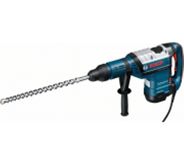
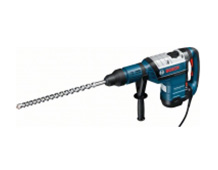
#3

Changed region(s): [[0.0, 0.2439, 1.0, 0.7622]]

diff --git a/index.html b/index.html
@@ -209,50 +209,50 @@
             <ul class="popular-catalog">
              <li class="popular-catalog-items">
               <div class="first-popular-items">
-                <img src="img/bosch_bfg_9000.jpg" alt="Перфоратор BOSCH BFG 9000">
+                <img src="img/bosch_bfg_9000.jpg" alt="Перфоратор BOSCH BFG 9000" width="218" height="170">
                 <div class="catalog-button">
                   <button type="button">Купить</button>
                   <button type="button">В закладки</button>
                 </div>
               </div>
               <h4>Перфоратор BOSCH BFG 9000</h4>
-              <p>32500 P.</p>
-              <p>25500 P.</p>
+              <p class="popular-tiems-old-price">32500 P.</p>
+              <p class="popular-items-price">25500 P.</p>
             </li>
             <li class="popular-catalog-items">
               <div>
-                <img src="img/bosch_bfg_3000.jpg" alt="Перфоратор BOSCH BFG 3000" width="127" height="112">
+                <img src="img/bosch_bfg_3000.jpg" alt="Перфоратор BOSCH BFG 3000" width="218" height="170">
                 <div class="catalog-button">
                   <button type="button">Купить</button>
                   <button type="button">В закладки</button>
                 </div>
               </div>
               <h4>Перфоратор BOSCH BFG 3000</h4>
-              <p>22500 Р.</p>
-              <p>15500 Р.</p>
+              <p class="popular-tiems-old-price">22500 Р.</p>
+              <p class="popular-items-price">15500 Р.</p>
             </li>
             <li class="popular-catalog-items">
               <div>
-                <img src="img/bosch_bfg_6000.jpg" alt="Перфоратор BOSCH BFG 6000" width="144" height="128">
+                <img src="img/bosch_bfg_6000.jpg" alt="Перфоратор BOSCH BFG 6000" width="218" height="170">
                 <div class="catalog-button">
                   <button type="button">Купить</button>
                   <button type="button">В закладки</button>
                 </div>
               </div>
               <h4>Перфоратор BOSCH BFG 6000</h4>
-              <p>30500 Р.</p>
-              <p>25500 P.</p>
+              <p class="popular-tiems-old-price">30500 Р.</p>
+              <p class="popular-items-price">25500 P.</p>
             </li>
             <li class="popular-catalog-items">
               <div>
-                <img src="img/bosch_bfg_2000.png" alt="Перфоратор BOSCH BFG 2000" width="127" height="112">
+                <img src="img/bosch_bfg_2000.jpg" alt="Перфоратор BOSCH BFG 2000" width="218" height="170">
                 <div class="catalog-button">
                   <button type="button">Купить</button>
                   <button type="button">В закладки</button>
                 </div>
               </div>
               <h4>Перфоратор BOSCH BFG 2000</h4>
-              <p>12500 Р.</p>
+              <p class="popular-items-price">12500 Р.</p>
             </li>
           </ul>
           </div>

diff --git a/css/style.css b/css/style.css
@@ -431,7 +431,7 @@ li:not(:first-child) {
     margin-left: 22px;
 }
 .first-popular-item {
-    width: 218px;
+  width: 218px;
   height: 170px;
   object-fit: contain;
 }
